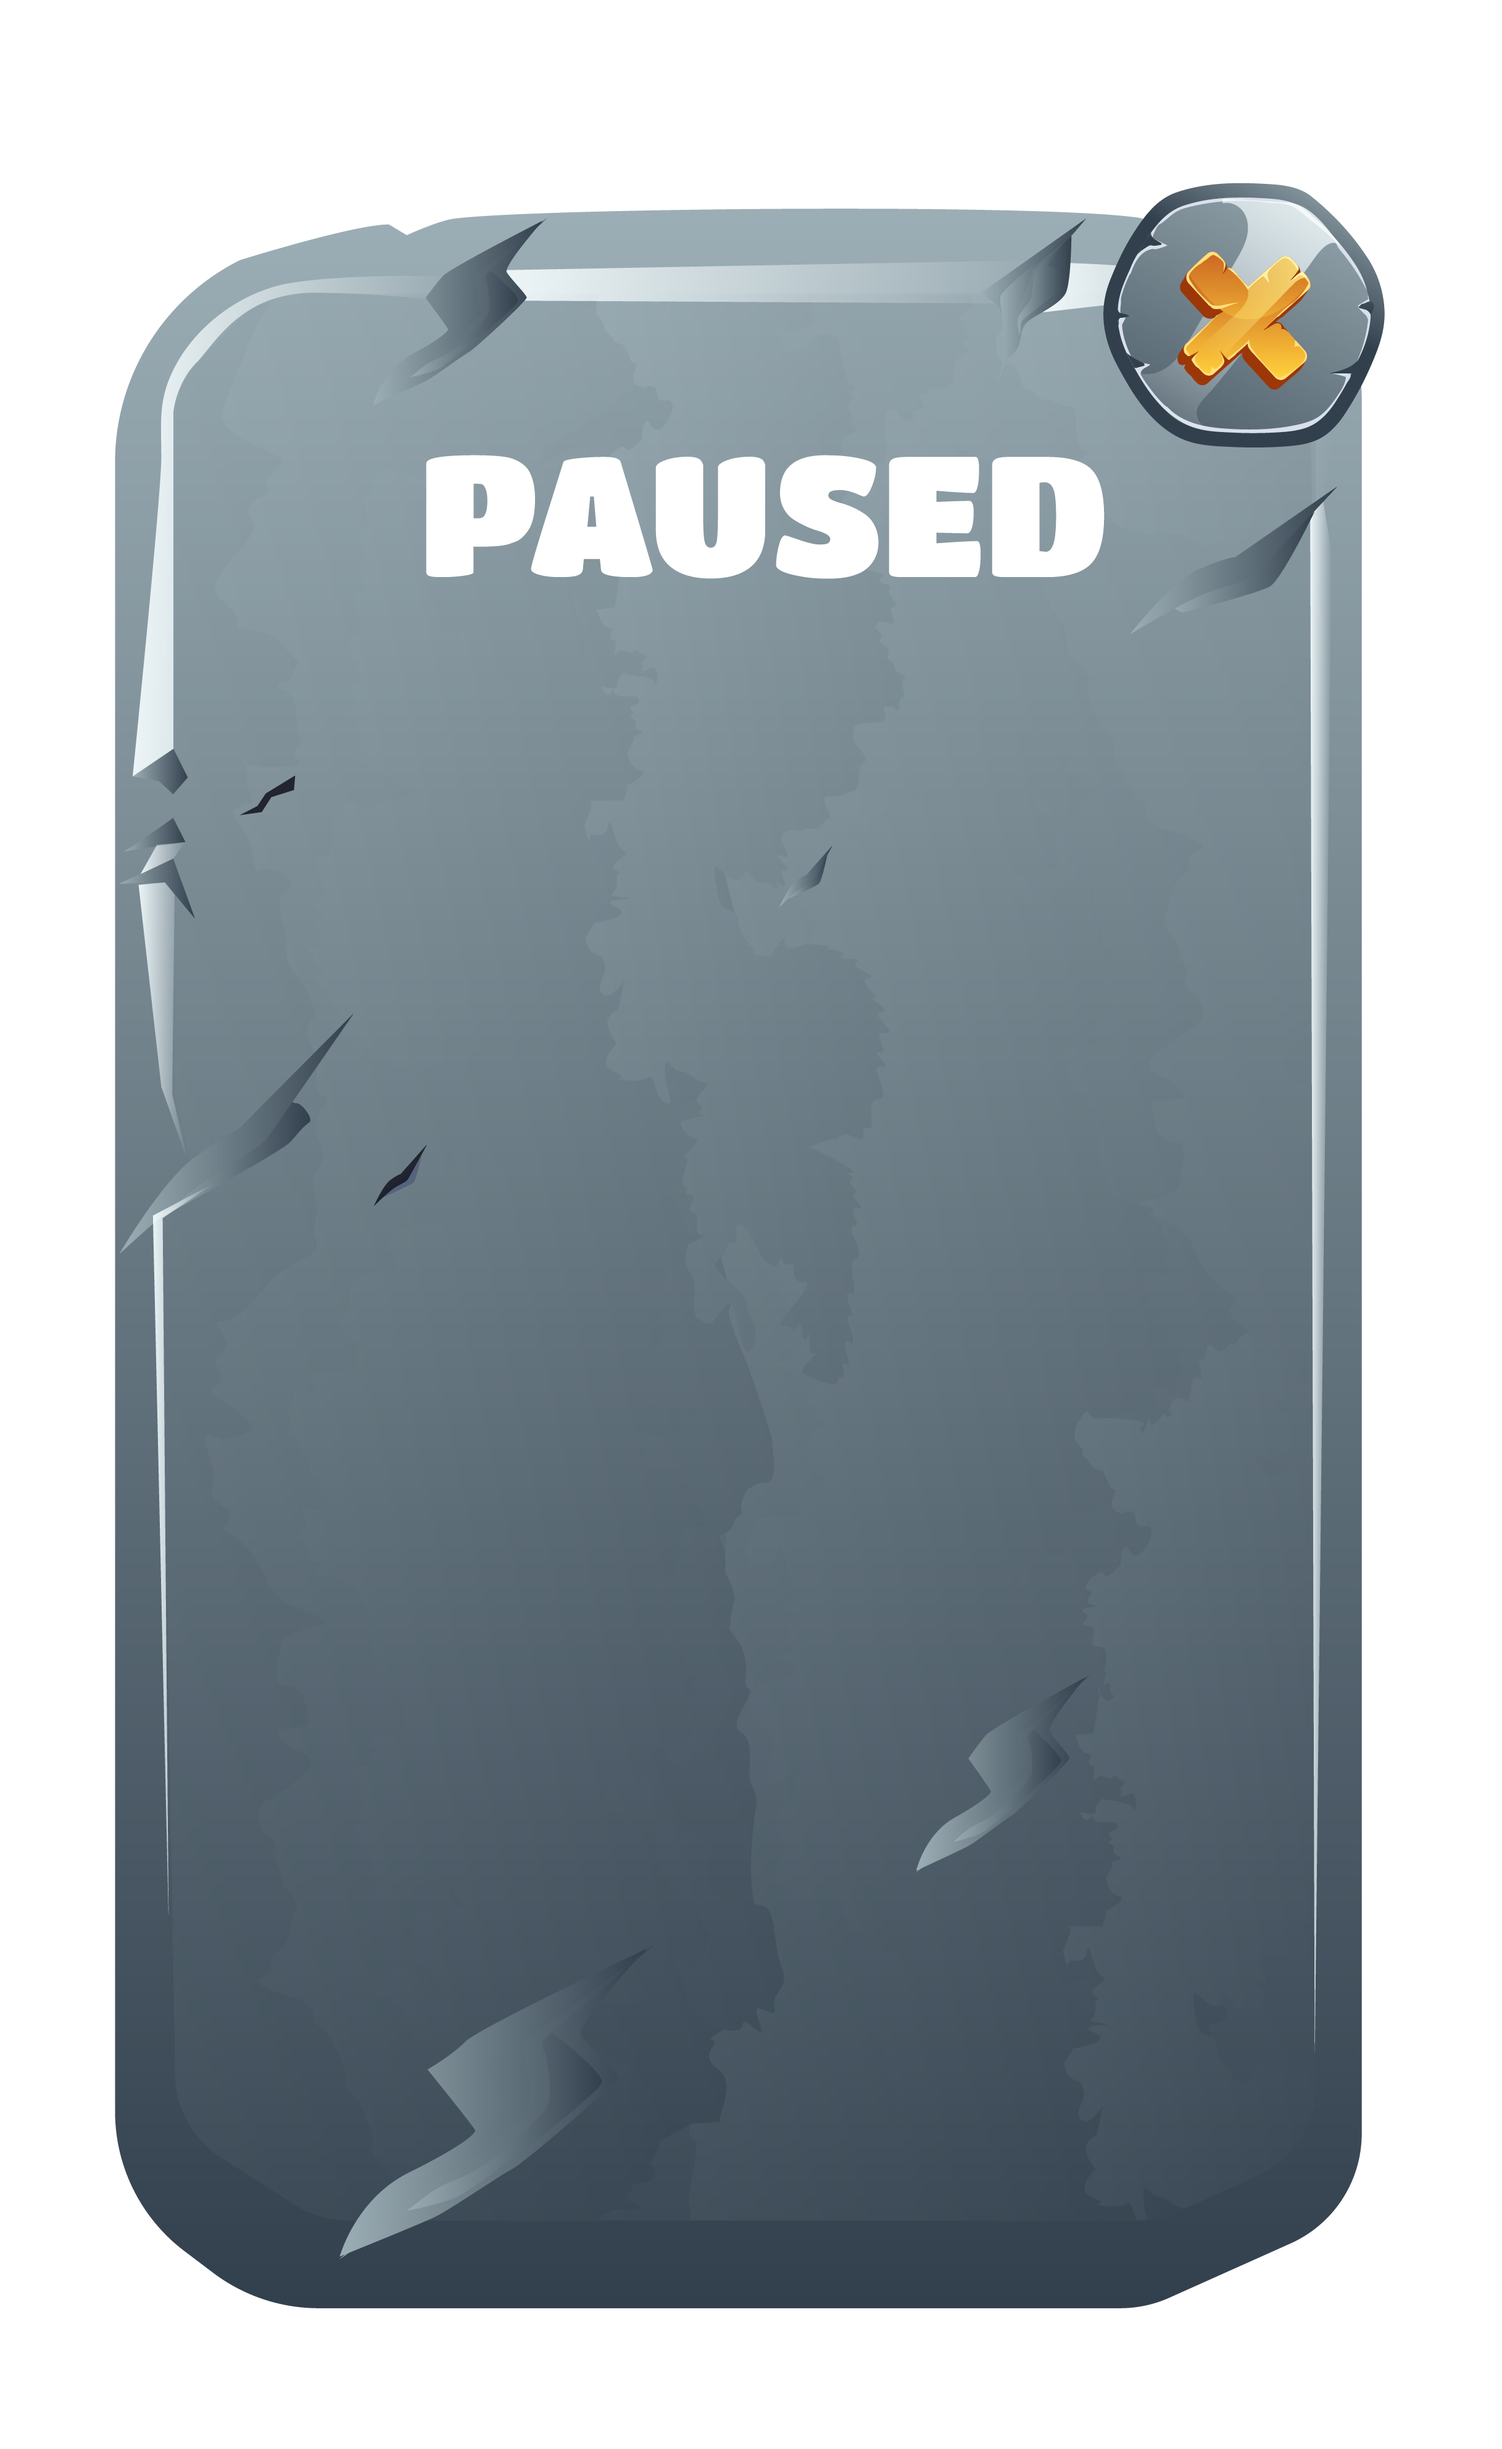
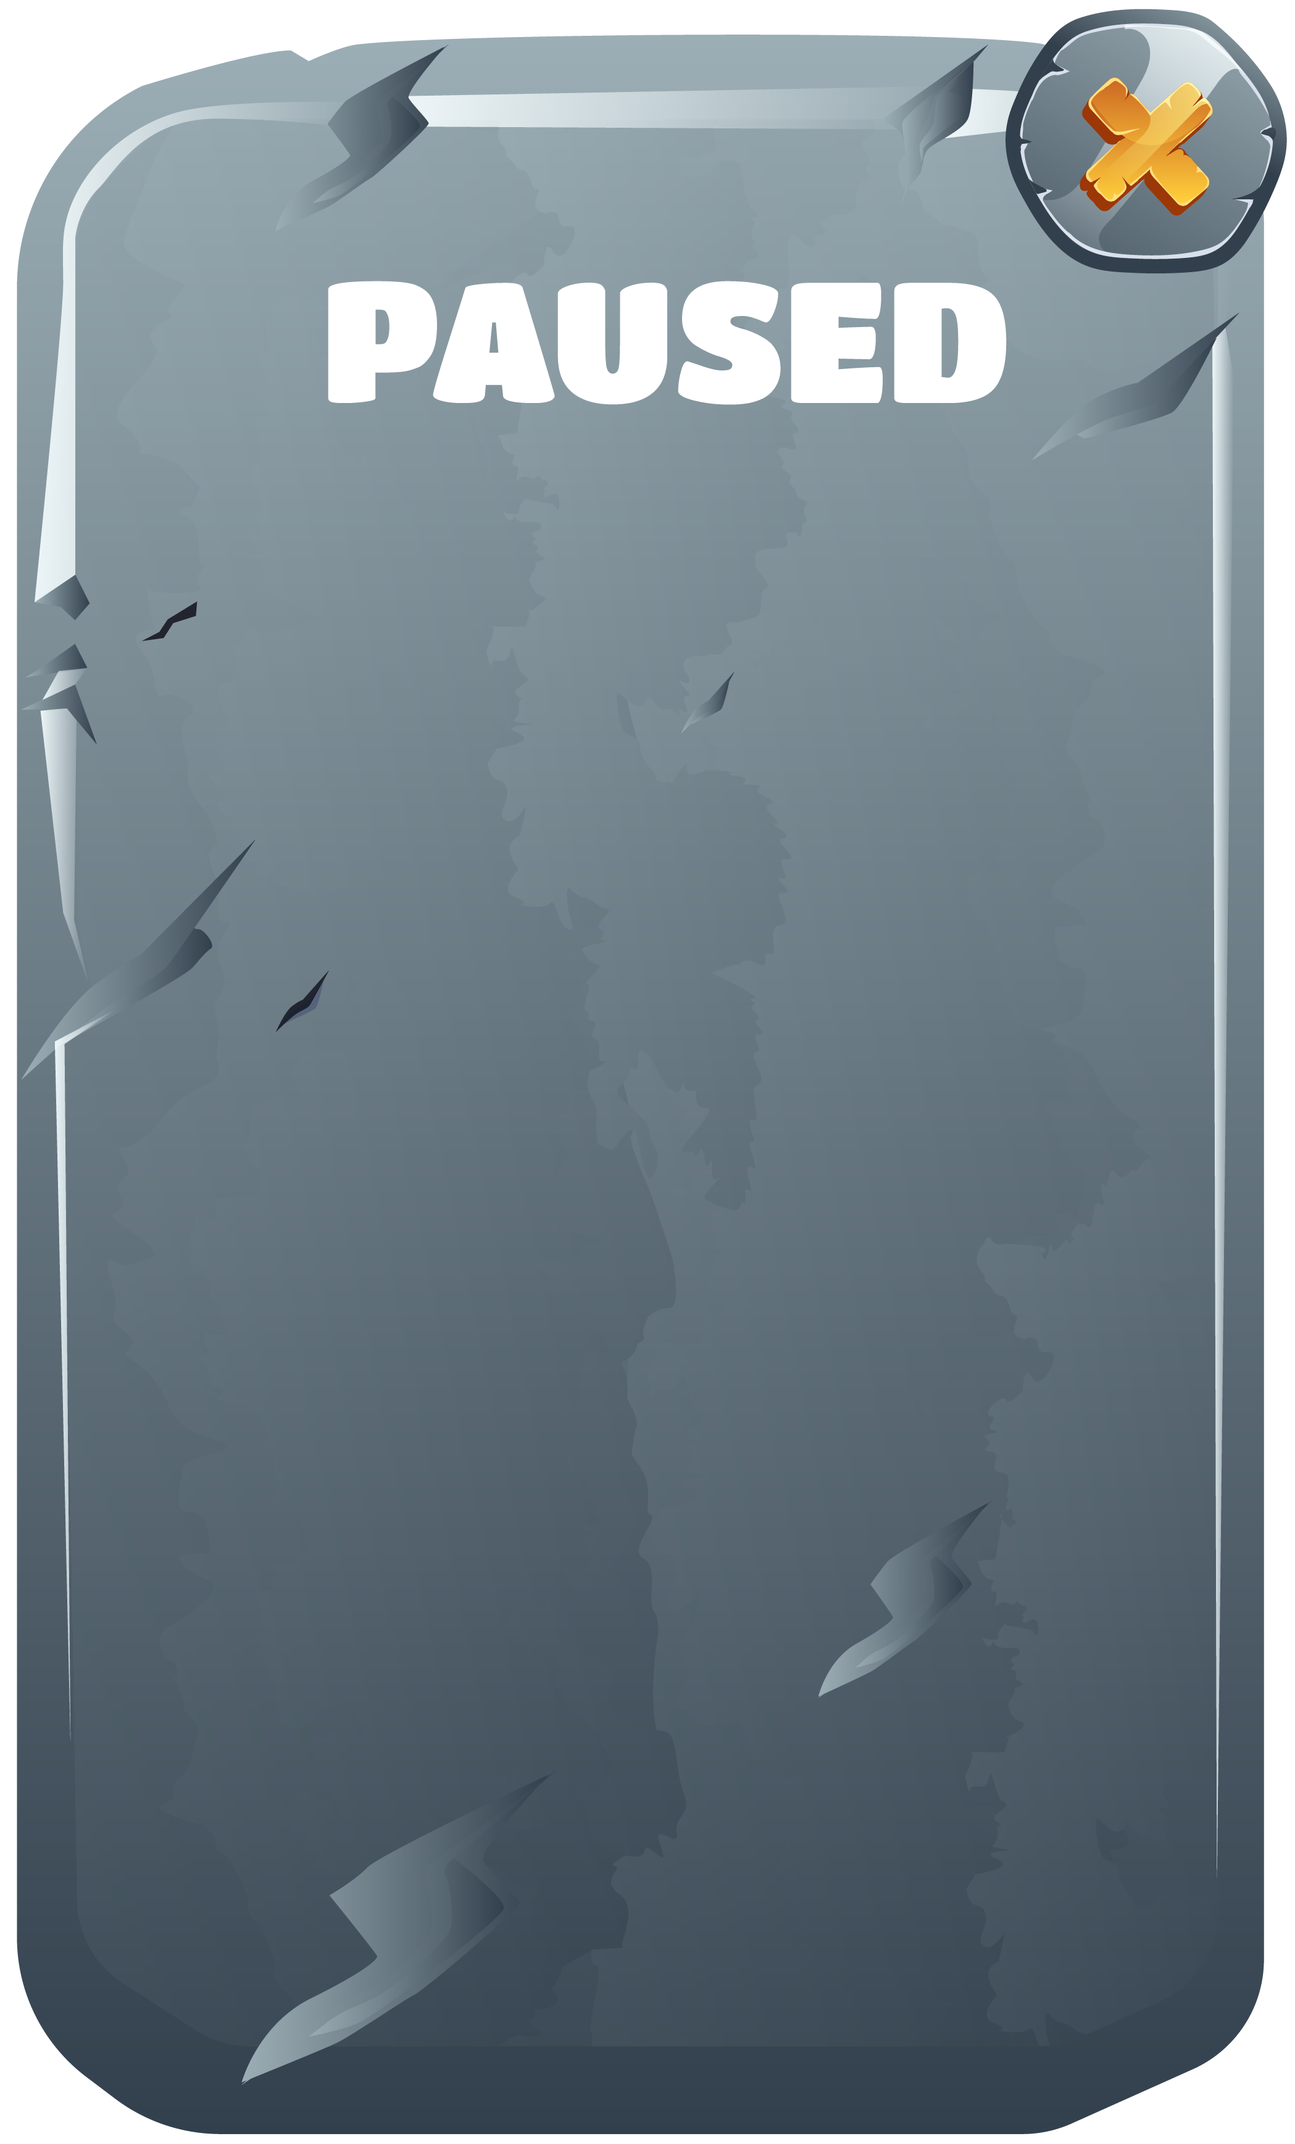
Added Pause menu to the game

diff --git a/pages/game.html b/pages/game.html
@@ -13,15 +13,6 @@
 	<link href="https://cdn.jsdelivr.net/npm/bootstrap@5.1.3/dist/css/bootstrap.min.css" rel="stylesheet"
 		integrity="sha384-1BmE4kWBq78iYhFldvKuhfTAU6auU8tT94WrHftjDbrCEXSU1oBoqyl2QvZ6jIW3" crossorigin="anonymous">
 	<link rel="stylesheet" href="../css/game.css">
-
-	<script type="text/javascript" src="../js/pages/facebook.js"></script>
-	<script type="text/javascript">
-
-		function shareFB() {
-			var score = 0;
-			shareScore(score);
-		}
-	</script>
 </head>
 
 <script src="/js/lib/three.js"></script>
@@ -55,6 +46,29 @@
 						</a>
 						<a href="/index.html" class="ui-btn mx-auto">
 							<img src="/media/images/victory/GAME UI-55.png" alt="Exit">
+						</a>
+					</div>
+				</div>
+			</div>
+		</div>
+	</div>
+	<div id="pause-menu" class="container absolute-container hidden-element">
+		<div class="row">
+			<div class="col-4 mx-auto mt-4">
+				<div class="menu-container">
+					<img src="/media/images/pausa/GAME UI-02.png" alt="menu">
+					<button id="close-btn" class="ui-btn" href="/index.html">
+						<img src="/media/images/settings/GAME UI-61.png" alt="close">
+					</button>
+					<div class="pause-menu-items">
+						<button id="resume-btn" class="ui-btn mx-auto mb-2">
+							<img src="/media/images/pausa/GAME UI-38.png" alt="Resume">
+						</button>
+						<a href="" class="ui-btn mx-auto mb-2">
+							<img src="/media/images/pausa/GAME UI-39.png" alt="Restart">
+						</a>
+						<a href="/index.html" class="ui-btn mx-auto mb-2">
+							<img src="/media/images/pausa/GAME UI-42.png" alt="Exit">
 						</a>
 					</div>
 				</div>

diff --git a/css/game.css b/css/game.css
@@ -72,7 +72,44 @@
     height: auto;
 }
 
-.menu-items button > img, .menu-items a > img{
+.menu-items button > img, .menu-items a > img, .pause-menu-items button > img, .pause-menu-items a > img{
+    width: 100%;
+    height: auto;
+}
+
+.pause-menu-items {
+    position: absolute;
+    width: 100%;
+    top: 25%;
+}
+
+.pause-menu-items button {
+    background: none;
+    border: none;
+    padding: 0;
+    width: 60%;
+    height: auto;
+    display: block;
+}
+
+.pause-menu-items a {
+    display: block;
+    width: 60%;
+    height: auto;
+}
+
+#close-btn {
+    background: none;
+    border: none;
+    position: absolute;
+    padding: 0;
+    left: 75%;
+    top: -1%;
+    width: 27%;
+    height: auto;
+}
+
+#close-btn > img {
     width: 100%;
     height: auto;
 }

diff --git a/js/pages/game.js b/js/pages/game.js
@@ -236,6 +236,15 @@ document.addEventListener('DOMContentLoaded', () => {
             height: window.innerHeight
         });
 
+        // Resume buttons
+        document.getElementById('resume-btn').addEventListener('click', (e) => {
+            fightScene.pauseGame();
+        });
+
+        document.getElementById('close-btn').addEventListener('click', (e) => {
+            fightScene.pauseGame();
+        });
+
         // Se prepara la aplicación
         app.prepare();
 

diff --git a/js/game/scenes/FightScene.js b/js/game/scenes/FightScene.js
@@ -192,6 +192,6 @@ export default class FightScene extends Scene {
 
     pauseGame() {
         this.pause = !this.pause;
-        document.getElementById('winMenu').style.visibility = this.pause ? 'visible' : 'hidden';
+        document.getElementById('pause-menu').style.display = this.pause ? 'block' : 'none';
     }
 }
